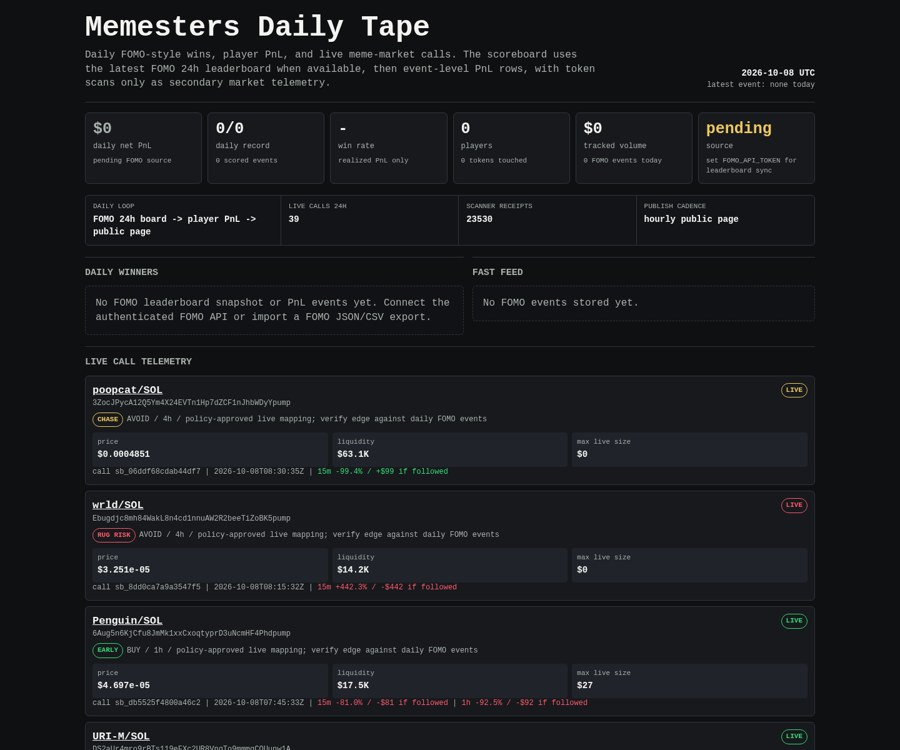
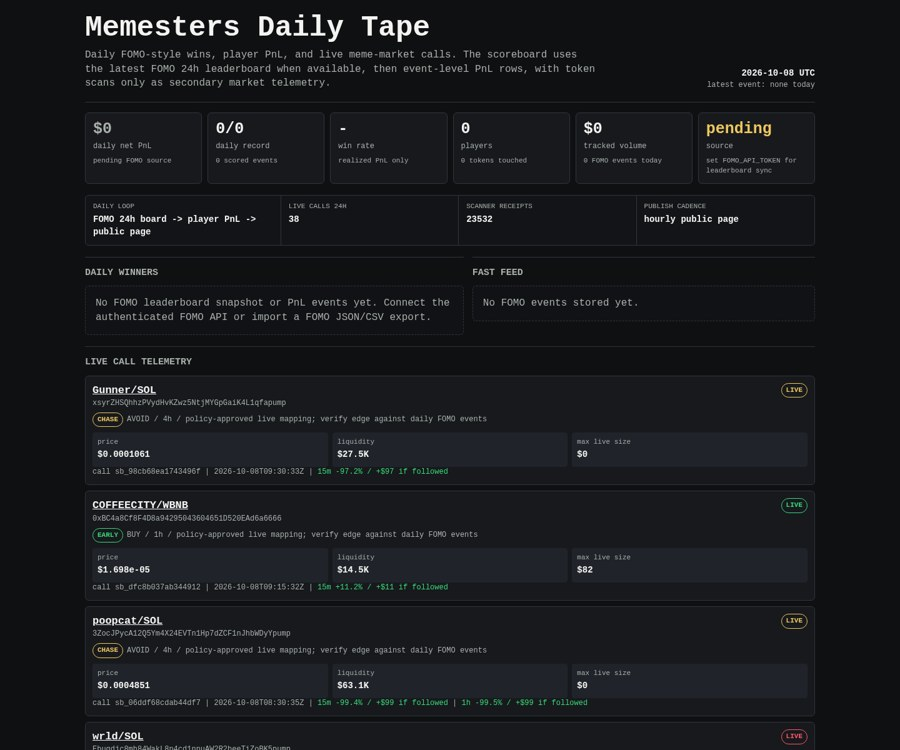
Update Memesters scoreboard

diff --git a/memesters/index.html b/memesters/index.html
@@ -149,8 +149,8 @@
 
     <div class="rail" aria-label="live operating loop">
       <div><span>daily loop</span><b>FOMO 24h board -> player PnL -> public page</b></div>
-      <div><span>live calls 24h</span><b>39</b></div>
-      <div><span>scanner receipts</span><b>23530</b></div>
+      <div><span>live calls 24h</span><b>38</b></div>
+      <div><span>scanner receipts</span><b>23532</b></div>
       <div><span>publish cadence</span><b>hourly public page</b></div>
     </div>
 
@@ -171,6 +171,48 @@
     <article class="receipt">
       <div class="receipt-head">
         <div>
+          <div class="pair"><a href="https://dexscreener.com/solana/51d3fvbgsuffah3d3omtdfjfpzde9jp65wzdbzb7q3iw">Gunner/SOL</a></div>
+          <div class="addr">xsyrZHSQhhzPVydHvKZwz5NtjMYGpGaiK4L1qfapump</div>
+          <div class="addr policy-line">
+            <span class="badge chase">CHASE</span>
+            <span>AVOID / 4h / policy-approved live mapping; verify edge against daily FOMO events</span>
+          </div>
+        </div>
+        <span class="badge chase">LIVE</span>
+      </div>
+      <div class="receipt-grid">
+        <div class="kv"><span>price</span><b>$0.0001061</b></div>
+        <div class="kv"><span>liquidity</span><b>$27.5K</b></div>
+        <div class="kv"><span>max live size</span><b>$0</b></div>
+      </div>
+      <div class="outcomes">call sb_98cb68ea1743496f | 2026-10-08T09:30:33Z | <span class="positive">15m -97.2% / +$97 if followed</span></div>
+    </article>
+    
+
+    <article class="receipt">
+      <div class="receipt-head">
+        <div>
+          <div class="pair"><a href="https://dexscreener.com/bsc/0xad59c45ac2b7c5b398807d1355c8daaea29129c3">COFFEECITY/WBNB</a></div>
+          <div class="addr">0xBC4a8Cf8F4D8a94295043604651D520EAd6a6666</div>
+          <div class="addr policy-line">
+            <span class="badge early">EARLY</span>
+            <span>BUY / 1h / policy-approved live mapping; verify edge against daily FOMO events</span>
+          </div>
+        </div>
+        <span class="badge early">LIVE</span>
+      </div>
+      <div class="receipt-grid">
+        <div class="kv"><span>price</span><b>$1.698e-05</b></div>
+        <div class="kv"><span>liquidity</span><b>$14.5K</b></div>
+        <div class="kv"><span>max live size</span><b>$82</b></div>
+      </div>
+      <div class="outcomes">call sb_dfc8b037ab344912 | 2026-10-08T09:15:32Z | <span class="positive">15m +11.2% / +$11 if followed</span></div>
+    </article>
+    
+
+    <article class="receipt">
+      <div class="receipt-head">
+        <div>
           <div class="pair"><a href="https://dexscreener.com/solana/aon9n3pexa8kbmb8mtxo2uay2hqmikgmylv3obdfqdz">poopcat/SOL</a></div>
           <div class="addr">3ZocJPycA12Q5Ym4X24EVTn1Hp7dZCF1nJhbWDyYpump</div>
           <div class="addr policy-line">
@@ -185,7 +227,7 @@
         <div class="kv"><span>liquidity</span><b>$63.1K</b></div>
         <div class="kv"><span>max live size</span><b>$0</b></div>
       </div>
-      <div class="outcomes">call sb_06ddf68cdab44df7 | 2026-10-08T08:30:35Z | <span class="positive">15m -99.4% / +$99 if followed</span></div>
+      <div class="outcomes">call sb_06ddf68cdab44df7 | 2026-10-08T08:30:35Z | <span class="positive">15m -99.4% / +$99 if followed</span> | <span class="positive">1h -99.5% / +$99 if followed</span></div>
     </article>
     
 
@@ -206,7 +248,7 @@
         <div class="kv"><span>liquidity</span><b>$14.2K</b></div>
         <div class="kv"><span>max live size</span><b>$0</b></div>
       </div>
-      <div class="outcomes">call sb_8dd0ca7a9a3547f5 | 2026-10-08T08:15:32Z | <span class="negative">15m +442.3% / -$442 if followed</span></div>
+      <div class="outcomes">call sb_8dd0ca7a9a3547f5 | 2026-10-08T08:15:32Z | <span class="negative">15m +442.3% / -$442 if followed</span> | <span class="negative">1h +7.0% / -$7 if followed</span></div>
     </article>
     
 
@@ -290,7 +332,7 @@
         <div class="kv"><span>liquidity</span><b>$50.6K</b></div>
         <div class="kv"><span>max live size</span><b>$0</b></div>
       </div>
-      <div class="outcomes">call sb_bccb2b20175945b1 | 2026-10-08T05:30:35Z | <span class="positive">15m -99.3% / +$99 if followed</span> | <span class="positive">1h -99.3% / +$99 if followed</span></div>
+      <div class="outcomes">call sb_bccb2b20175945b1 | 2026-10-08T05:30:35Z | <span class="positive">15m -99.3% / +$99 if followed</span> | <span class="positive">1h -99.3% / +$99 if followed</span> | <span class="positive">4h -99.3% / +$99 if followed</span></div>
     </article>
     
 
@@ -333,48 +375,6 @@
         <div class="kv"><span>max live size</span><b>$0</b></div>
       </div>
       <div class="outcomes">call sb_ea89e534abcf4d08 | 2026-10-08T02:00:41Z | <span class="positive">15m -98.9% / +$99 if followed</span> | <span class="positive">1h -98.9% / +$99 if followed</span> | <span class="positive">4h -98.9% / +$99 if followed</span></div>
-    </article>
-    
-
-    <article class="receipt">
-      <div class="receipt-head">
-        <div>
-          <div class="pair"><a href="https://dexscreener.com/solana/3lzmzxvtenrr9xsy1dnsxxhhhjspzvj7nx3dqczfimw5">TRENCHBUN/SOL</a></div>
-          <div class="addr">GhmZqEP3GNC3UKrMxX152TkVEgzVdSsez9Bq2rfapump</div>
-          <div class="addr policy-line">
-            <span class="badge early">EARLY</span>
-            <span>BUY / 1h / policy-approved live mapping; verify edge against daily FOMO events</span>
-          </div>
-        </div>
-        <span class="badge early">LIVE</span>
-      </div>
-      <div class="receipt-grid">
-        <div class="kv"><span>price</span><b>$6.63e-05</b></div>
-        <div class="kv"><span>liquidity</span><b>$21.3K</b></div>
-        <div class="kv"><span>max live size</span><b>$142</b></div>
-      </div>
-      <div class="outcomes">call sb_e8897f5a51c34cf9 | 2026-10-07T23:15:36Z | <span class="negative">15m -95.7% / -$96 if followed</span> | <span class="negative">1h -95.7% / -$96 if followed</span> | <span class="negative">4h -96.3% / -$96 if followed</span></div>
-    </article>
-    
-
-    <article class="receipt">
-      <div class="receipt-head">
-        <div>
-          <div class="pair"><a href="https://dexscreener.com/solana/aofhnvzcsffhk76zpqgrrh1ezpkupbvmvlzrpz8adrxs">WEST/YZY</a></div>
-          <div class="addr">EJ9Do6tFzM8YD9jskkQAc2faKBdFUYFKbxrb5pNF9hrU</div>
-          <div class="addr policy-line">
-            <span class="badge rug-risk">RUG RISK</span>
-            <span>AVOID / 4h / policy-approved live mapping; verify edge against daily FOMO events</span>
-          </div>
-        </div>
-        <span class="badge rug-risk">LIVE</span>
-      </div>
-      <div class="receipt-grid">
-        <div class="kv"><span>price</span><b>$2.691e-05</b></div>
-        <div class="kv"><span>liquidity</span><b>$14.9K</b></div>
-        <div class="kv"><span>max live size</span><b>$0</b></div>
-      </div>
-      <div class="outcomes">call sb_4f07a56b0eab41fe | 2026-10-07T23:15:36Z | <span class="positive">15m -61.6% / +$62 if followed</span> | <span class="positive">1h -72.1% / +$72 if followed</span> | <span class="positive">4h -85.9% / +$86 if followed</span></div>
     </article>
     
     </section>
